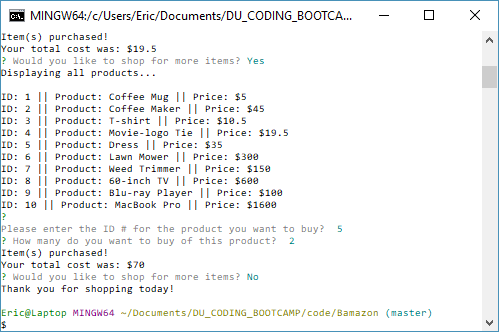
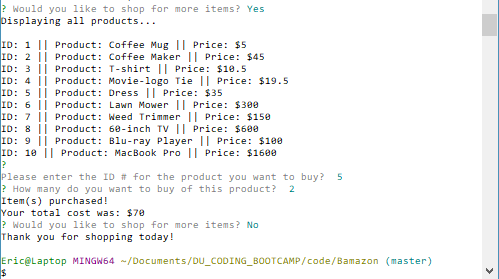
updated README and images

Changed region(s): [[0.0, 0.0, 1.0, 0.8889], [0.0, 0.9176, 1.0, 1.0], [0.9619, 0.2007, 1.0, 0.2867]]

diff --git a/README.md b/README.md
@@ -5,8 +5,18 @@ In this CLI App, customers can shop for a variety of products offered by Bamazon
 
 Before you run the app, make sure you have installed the required Node modules first. You can do this be running <npm install> in your Command Terminal. Also, start the MySQL server.
 
-##Customer View##
-To begin, enter into your Terminal `node bamazonCustomer`. 
+## Customer View
+To begin, enter into your Terminal `node bamazonCustomer` and press Enter. 
 
-![Starting the Program](/images/bamCustomer_01.PNG)
-Format: ![Starting the Customer View]
+Here, the customer is presented with the list of items from which they can purchase.
+![Starting the Program](/images/bamCust_productList.PNG)
+
+Next, the customer is prompted to enter the ID Number of the item they wish to purchase, and to enter the quantity desired for this item.
+![Buying a Product](/images/bamCust_buyProduct.PNG)
+
+Their purchase is processed, their total cost is presented, and then the cusomter is prompted if they would like to do any more shopping.
+
+If the response is `Y` (yes), then the customer is presented with the full list of items available, goes through the same shopping process as outlined above.
+
+If the response is `N` (no), then the program ends with a closing message.
+![Ending the Program](/images/bamCust_buyMoreThenEndProg.PNG)
